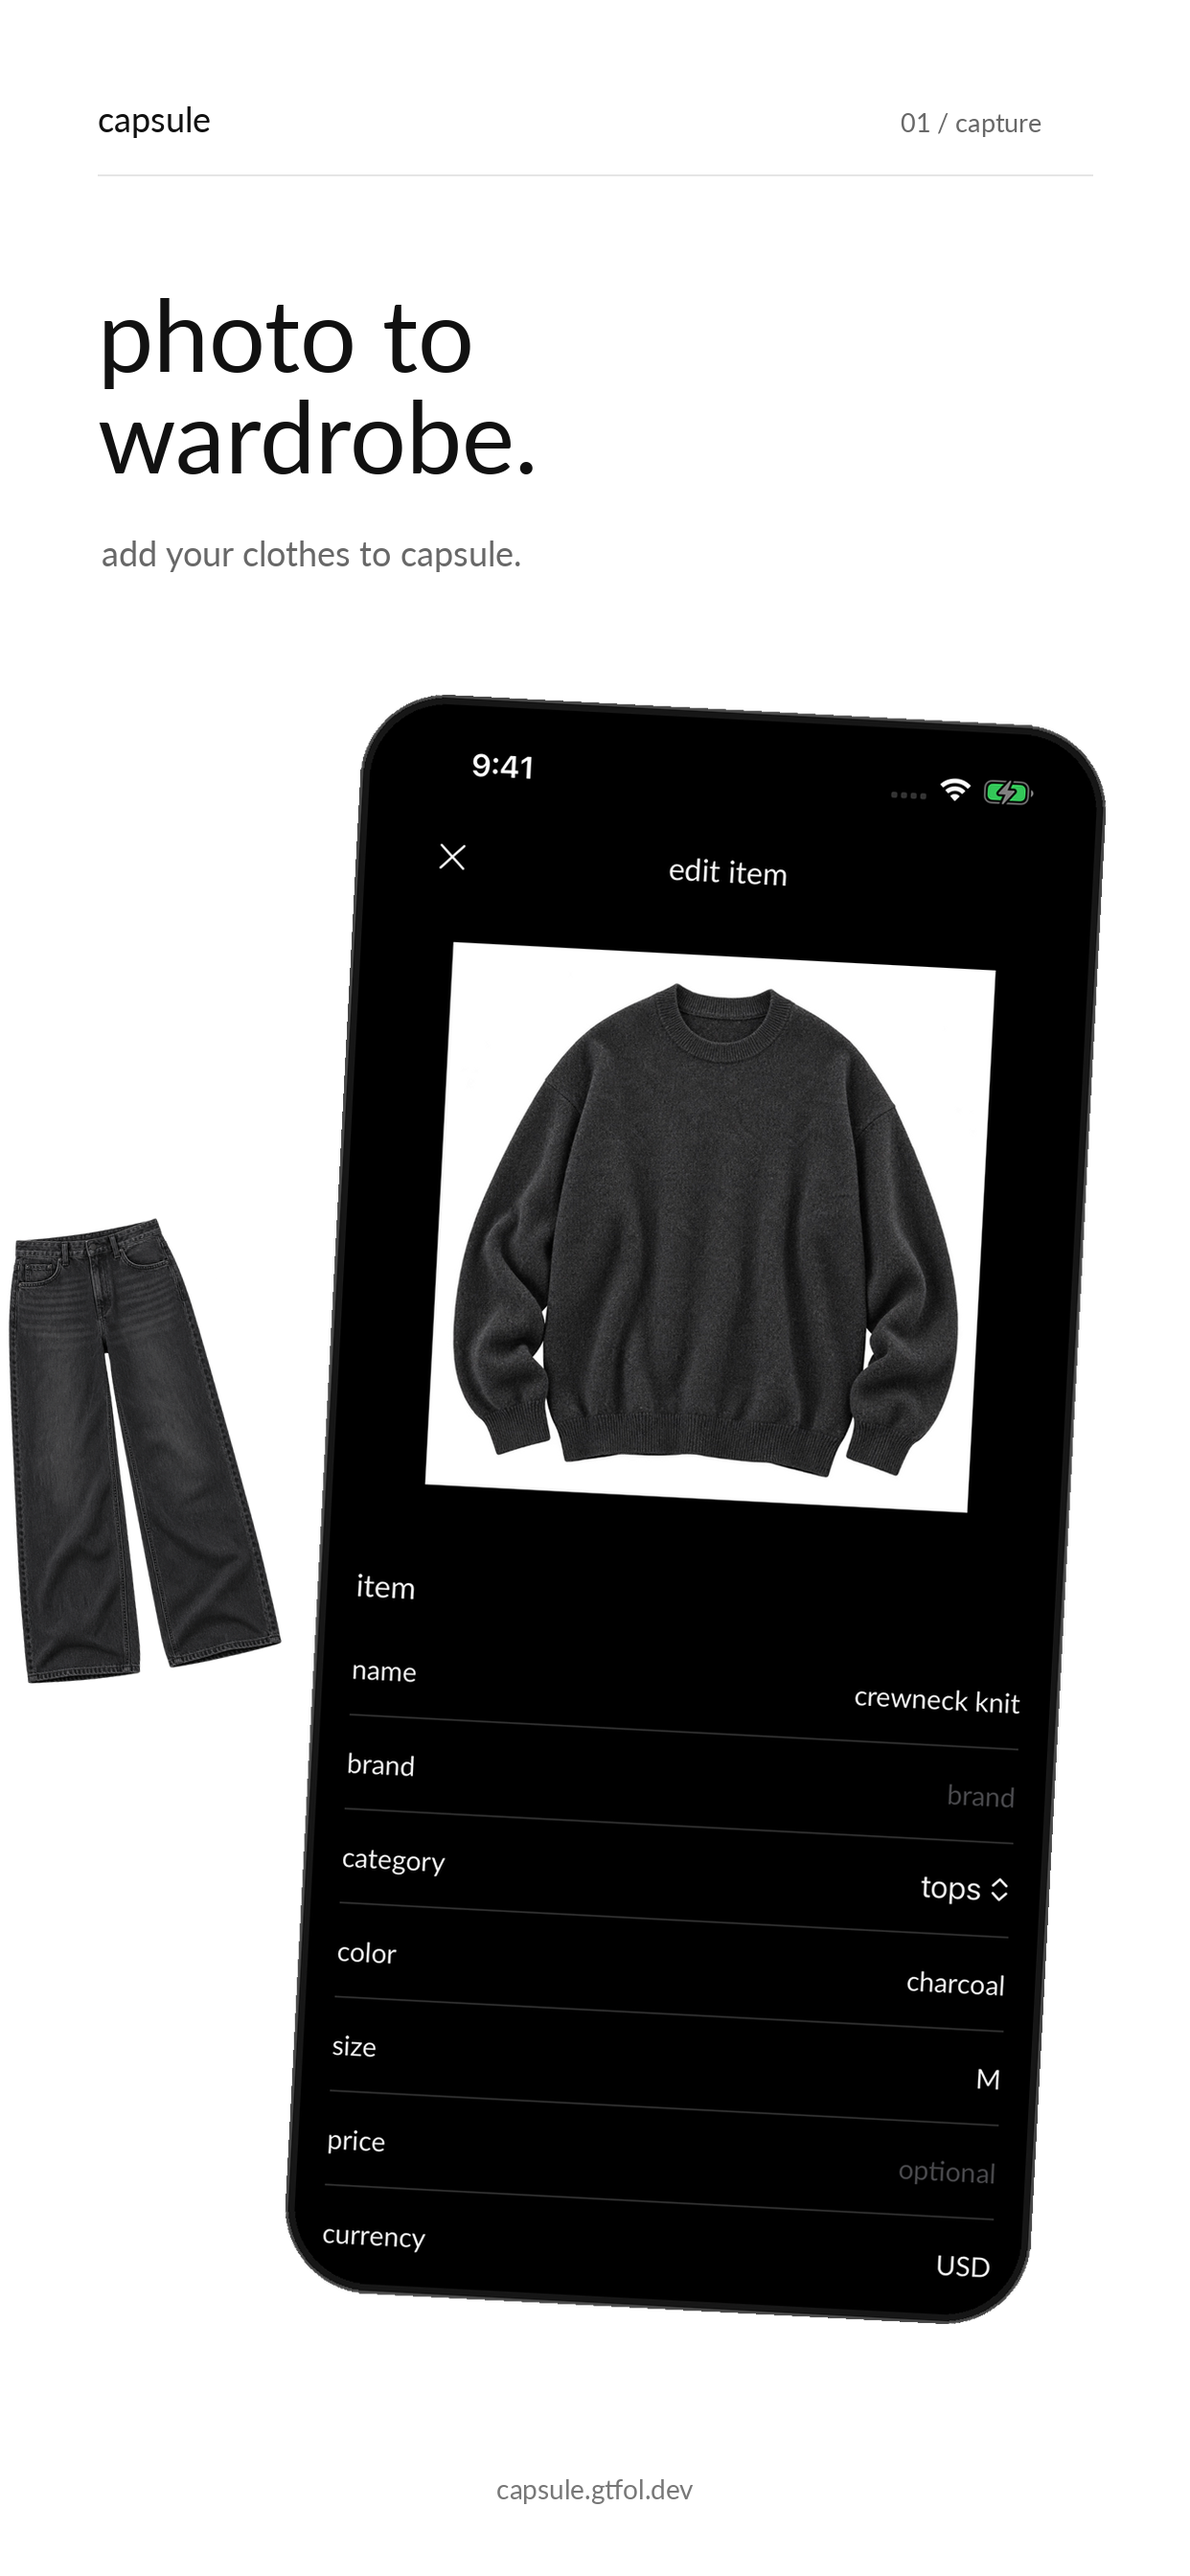
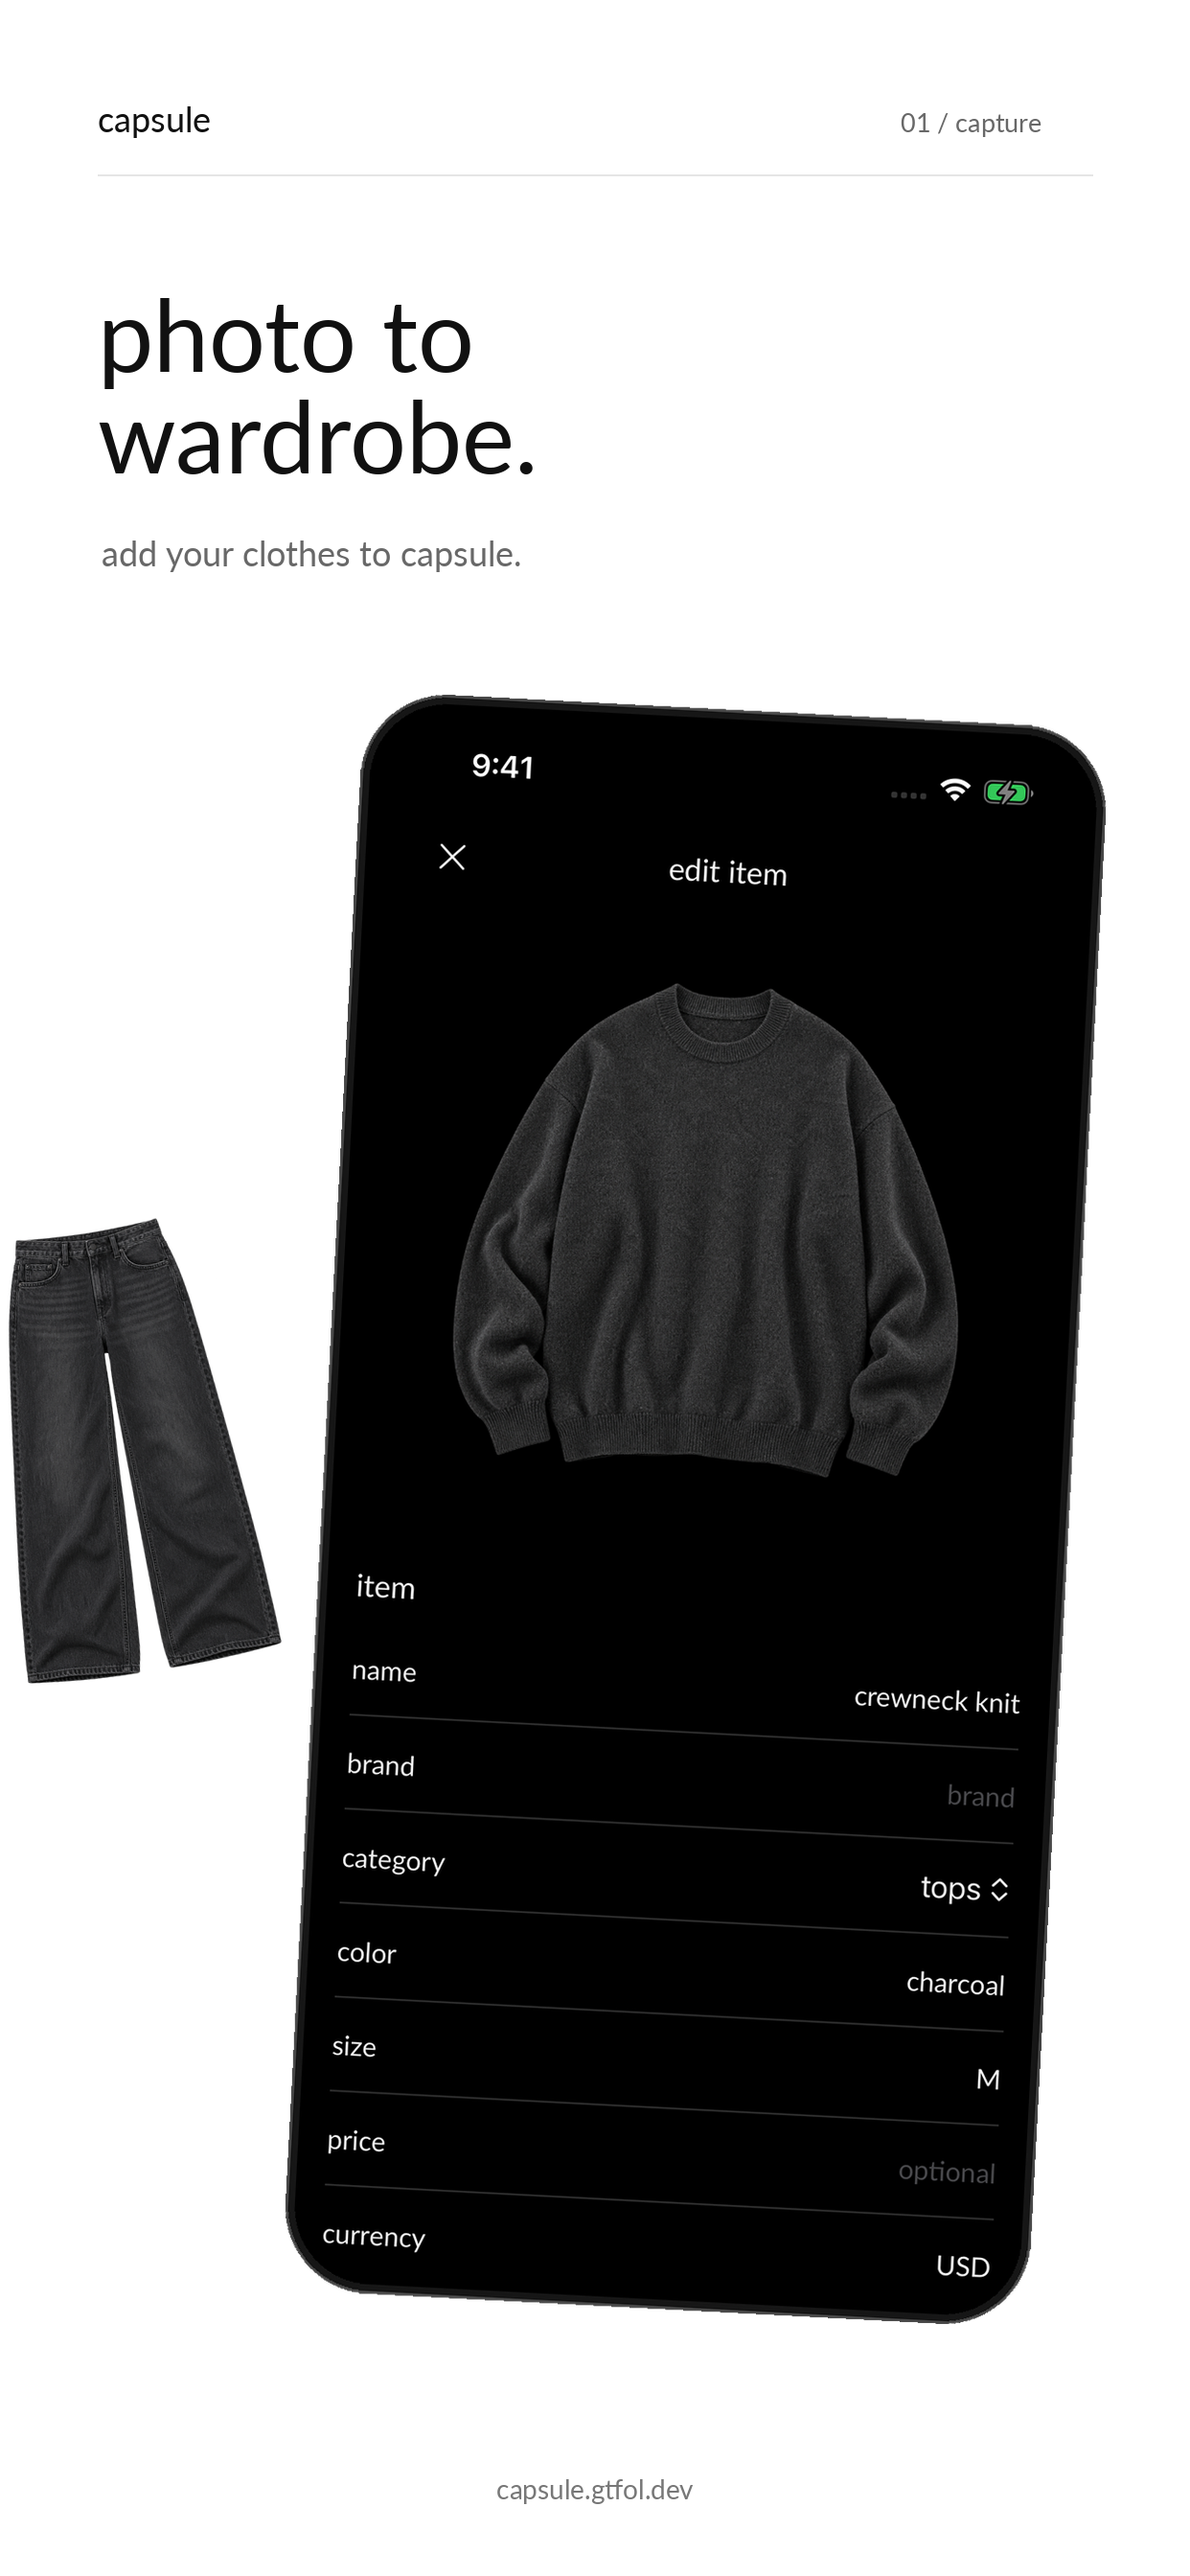
preserve gallery transparency, refresh screenshots

Changed region(s): [[0.3366, 0.3438, 0.8567, 0.5938]]

diff --git a/apps/ios/marketing/app-store/gallery-entry.swift b/apps/ios/marketing/app-store/gallery-entry.swift
@@ -7,6 +7,19 @@ actor GalleryCredentials: CredentialStore {
     func read(_ credential: Credential) -> String? { values[credential] }
     func write(_ value: String?, for credential: Credential) { values[credential] = value }
 }
+actor GalleryMedia: MediaStoring {
+    private var files: [String: Data] = [:]
+    func write(_ data: Data, extension suffix: String) -> String {
+        let reference = UUID().uuidString + "." + suffix
+        files[reference] = data
+        return reference
+    }
+    func read(_ reference: String) throws -> Data {
+        guard let data = files[reference] else { throw ScanError.storage }
+        return data
+    }
+    func remove(_ reference: String) { files[reference] = nil }
+}
 struct GalleryTransport: HTTPTransport {
     func send(_ request: URLRequest) async throws -> HTTPResult { throw URLError(.notConnectedToInternet) }
 }
@@ -31,7 +44,7 @@ struct GalleryTransport: HTTPTransport {
             let container = try ModelContainer(for: WardrobeItem.self, configurations: ModelConfiguration(isStoredInMemoryOnly: true))
             let credentials = GalleryCredentials()
             try await credentials.storeCapsuleLogin(CapsuleLogin(token: UUID().uuidString, user: CapsuleUser(id: "gallery-example", name: "")))
-            let media = LocalMediaStore(directory: URL.applicationSupportDirectory.appendingPathComponent("gallery-only"))
+            let media = GalleryMedia()
             let app = AppServices(container: container, media: media, credentials: credentials, transport: GalleryTransport())
             await app.refreshCredentials()
             let fixtures: [(String, ItemFields)] = [
@@ -42,8 +55,8 @@ struct GalleryTransport: HTTPTransport {
             ]
             for (index, fixture) in fixtures.enumerated() {
                 let data = try Data(contentsOf: Bundle.main.url(forResource: fixture.0, withExtension: "png")!)
-                let jpeg = try await app.images.jpeg(data, maxEdge: 1600, quality: 0.9).data
-                let reference = try await media.write(jpeg, extension: "jpg")
+                // Keep the cutouts transparent; JPEG would flatten them onto white.
+                let reference = await media.write(data, extension: "png")
                 var record = ItemRecord(localImageReference: reference, fields: fixture.1)
                 record.createdAt = Date().addingTimeInterval(Double(-index))
                 try app.items.save(record)

diff --git a/apps/ios/marketing/app-store/README.md b/apps/ios/marketing/app-store/README.md
@@ -14,7 +14,7 @@ The October 11, 2026 revision replaces every branded garment, brand field value,
 
 Use a disposable copy of `apps/ios` from `b702051`, matching the submitted binary. Replace its app entry point with `gallery-entry.swift` and copy the four sample PNGs into its Resources folder. Regenerate that disposable Xcode project with `scripts/generate-project.py`. Build for an iPhone Simulator with a separate bundle identifier (`dev.gtfol.capsule.gallery`) and signing disabled. Do not change the production app or use a real account.
 
-Launch with `GALLERY_SCREEN=knit`, `tee`, or `drafts`. In Simulator, use File → Save Screen… with the device mask disabled; save to `screens/knit.png`, `screens/tee.png`, and `screens/drafts.png`. The editor opens a saved local sample draft so no extraction alters the manually entered example.
+Launch with `GALLERY_SCREEN=knit`, `tee`, or `drafts`. In Simulator, use File → Save Screen… with the device mask disabled; save to `screens/knit.png`, `screens/tee.png`, and `screens/drafts.png`. The editor opens a saved local sample draft so no extraction alters the manually entered example. Preserve the PNGs when writing sample media; converting them to JPEG would flatten their transparent backgrounds onto white.
 
 Run `python3 render.py` with Pillow installed. Visually inspect all three panels, including names, logos, footer clearance, and any overlays. All artwork must end above y=2430, leaving at least 150 px before the footer at y=2580. Verify each upload is 1242 × 2688, RGB, with no alpha channel.
 
